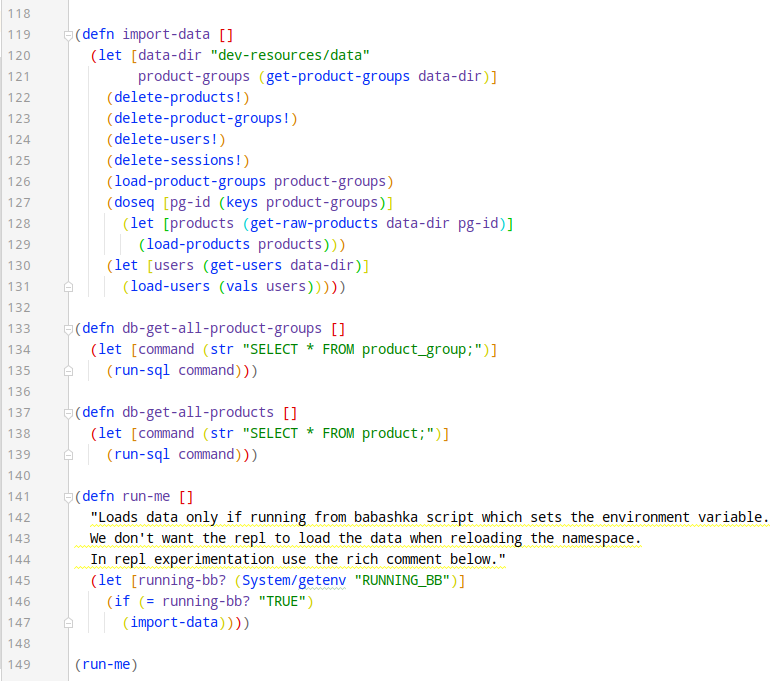
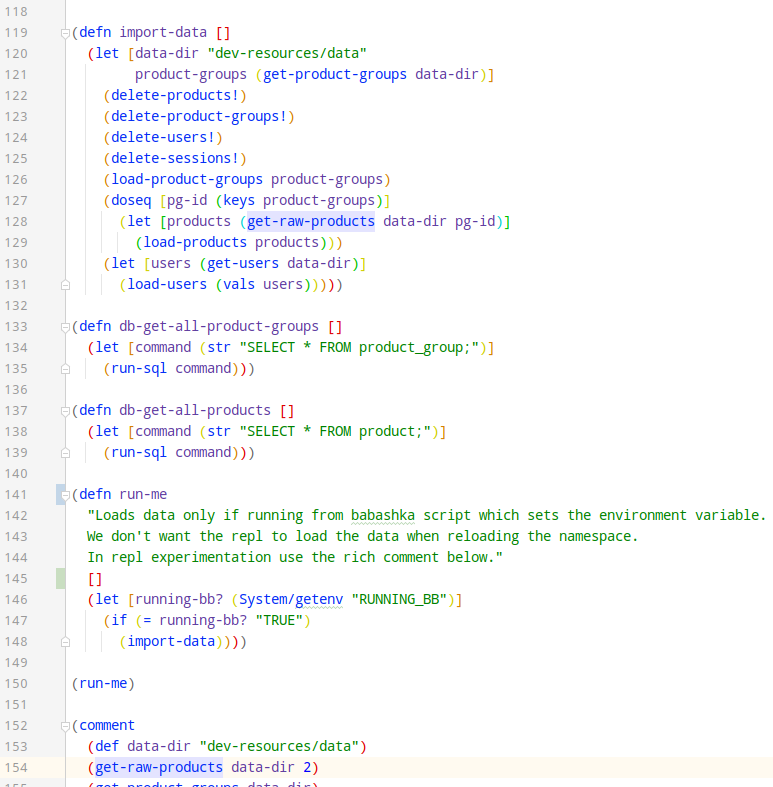
Fixed the docstring in Babashka story

Changed region(s): [[0.0, 0.0, 0.9935, 1.0]]

diff --git a/_posts/2020-09-01-using-clojure-in-command-line-with-babashka.md b/_posts/2020-09-01-using-clojure-in-command-line-with-babashka.md
@@ -43,10 +43,11 @@ The flag is the `RUNNING_BB` export above.
 Then in the Clojure code we have a top level form `(run-me)` in the namespace (file [bb_postgres.clj](https://github.com/karimarttila/clojure/blob/master/webstore-demo/integrant-simple-server/postgres/bb_postgres.clj)):
 
 ```clojure
-(defn run-me []
-  "Loads data only if running from Babashka script which sets the environment variable.
+(defn run-me
+  "Loads data only if running from babashka script which sets the environment variable.
   We don't want the repl to load the data when reloading the namespace.
   In repl experimentation use the rich comment below."
+  []
   (let [running-bb? (System/getenv "RUNNING_BB")]
     (if (= running-bb? "TRUE")
       (import-data))))
